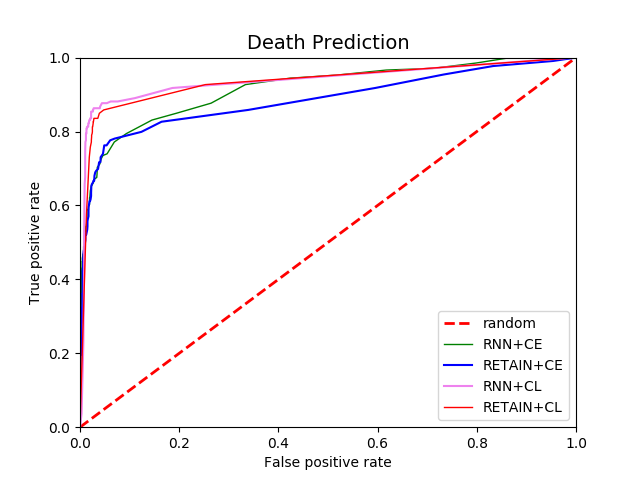
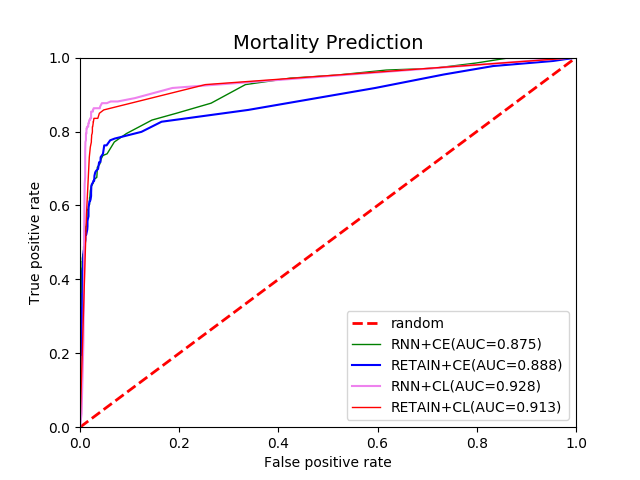
correct to icu

Changed region(s): [[0.5312, 0.6562, 0.875, 0.875], [0.3438, 0.0625, 0.6562, 0.125]]

diff --git a/draw_roc.py b/draw_roc.py
@@ -1106,21 +1106,21 @@ fp_rates_cl_RNN = [1.0,
 
 plt.xlabel("False positive rate")
 plt.ylabel("True positive rate")
-plt.title("Death Prediction", fontsize=14)
+plt.title("Mortality Prediction", fontsize=14)
 plt.xlim(0.0, 1.0)
 plt.ylim(0.0, 1.0)
 x = [0.0, 1.0]
 plt.plot(x, x, linestyle='dashed', color='red', linewidth=2, label='random')
 
-plt.plot(fp_rates, tp_rates, color='green', linewidth=1, label='RNN+CE')
+plt.plot(fp_rates, tp_rates, color='green', linewidth=1, label='RNN+CE(AUC=0.875)')
 
 
-plt.plot(fp_rates_ce_retain,tp_rate_ce_retain,color='blue',label='RETAIN+CE')
+plt.plot(fp_rates_ce_retain,tp_rate_ce_retain,color='blue',label='RETAIN+CE(AUC=0.888)')
 
 #plt.plot(fp_rate_hl_retain,tp_rate_hl_retain,color='orange',label='RETAIN+HL')
 
-plt.plot(fp_rates_cl_RNN,tp_rates_CL_RNN,color='violet',label='RNN+CL')
-plt.plot(fp_rates_cl, tp_rates_CL, color='red', linewidth=1, label='RETAIN+CL')
+plt.plot(fp_rates_cl_RNN,tp_rates_CL_RNN,color='violet',label='RNN+CL(AUC=0.928)')
+plt.plot(fp_rates_cl, tp_rates_CL, color='red', linewidth=1, label='RETAIN+CL(AUC=0.913)')
 
 
 plt.legend(loc='lower right')

diff --git a/draw_roc_intubate.py b/draw_roc_intubate.py
@@ -1231,16 +1231,16 @@ plt.ylim(0.0, 1.0)
 x = [0.0, 1.0]
 plt.plot(x, x, linestyle='dashed', color='red', linewidth=2, label='random')
 
-plt.plot(fp_rates, tp_rates, color='green', linewidth=1, label='RNN+CE')
+plt.plot(fp_rates, tp_rates, color='green', linewidth=1, label='RNN+CE(AUC=0.827)')
 
 
-plt.plot(fp_rates_ce_retain,tp_rate_ce_retain,color='blue',label='RETAIN+CE')
+plt.plot(fp_rates_ce_retain,tp_rate_ce_retain,color='blue',label='RETAIN+CE(AUC=0.836)')
 
 #plt.plot(fp_rate_hl_retain,tp_rate_hl_retain,color='orange',label='RETAIN+HL')
 
-plt.plot(fp_rates_cl_RNN,tp_rates_CL_RNN,color='violet',label='RNN+CL')
+plt.plot(fp_rates_cl_RNN,tp_rates_CL_RNN,color='violet',label='RNN+CL(AUC=0.856)')
 
-plt.plot(fp_rates_cl, tp_rates_CL, color='red', linewidth=1, label='RETAIN+CL')
+plt.plot(fp_rates_cl, tp_rates_CL, color='red', linewidth=1, label='RETAIN+CL(AUC=0.840)')
 
 
 
